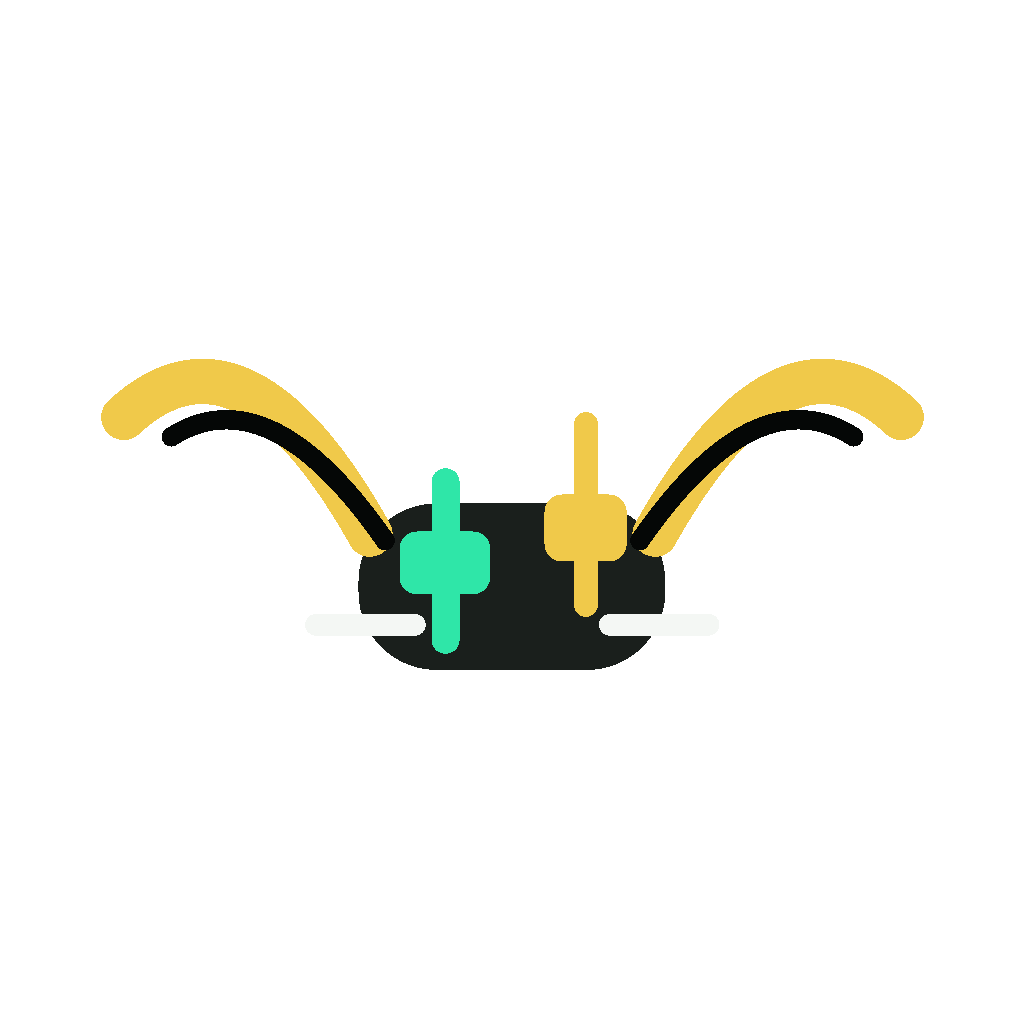
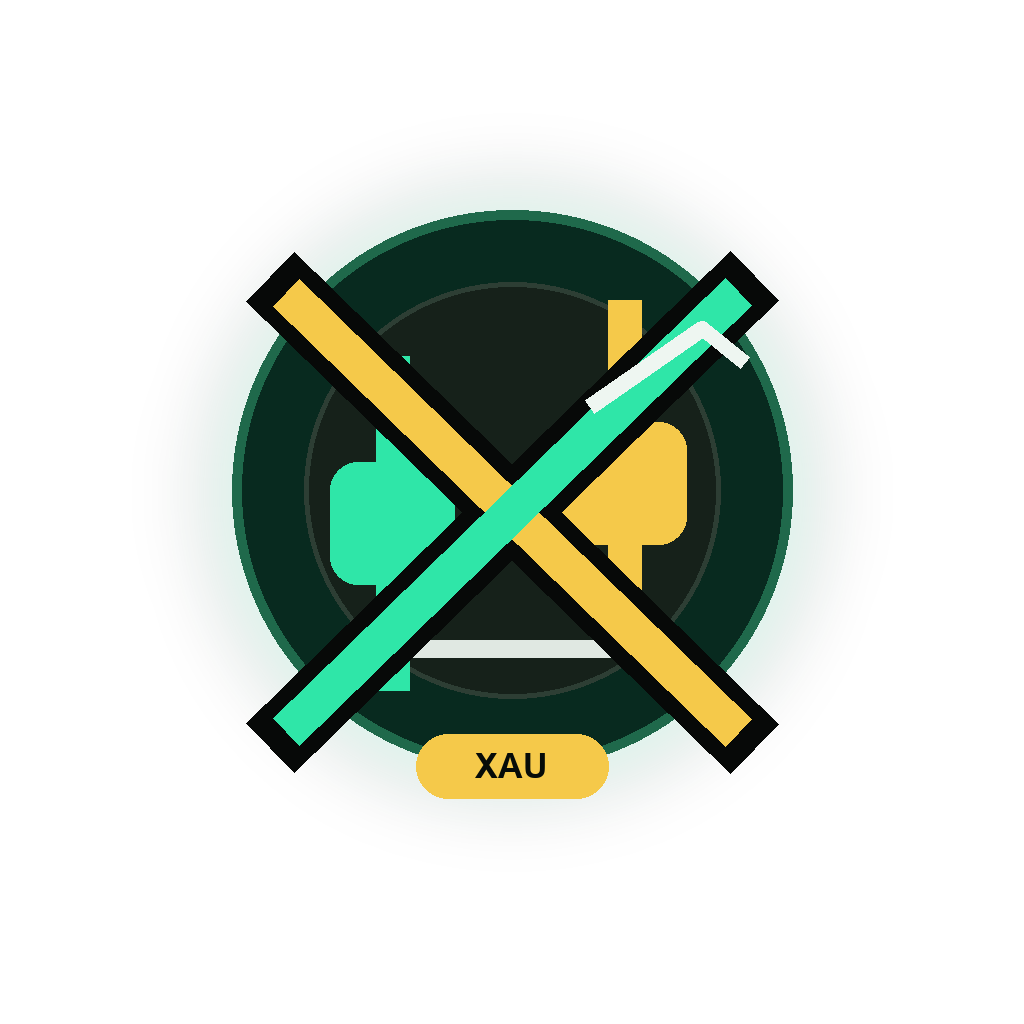
refresh mobile branding and auto version builds

Changed region(s): [[0.0938, 0.1875, 0.9062, 0.7812]]

diff --git a/apps/mobile/app.config.js b/apps/mobile/app.config.js
@@ -10,19 +10,33 @@ const easProjectId =
   process.env.EAS_PROJECT_ID ??
   appJson.expo.extra?.eas?.projectId;
 
+const buildSeed = process.env.MOBILE_BUILD_SEED ?? new Date().toISOString().replace(/\D/g, "").slice(0, 14);
+const buildDate = new Date(
+  `${buildSeed.slice(0, 4)}-${buildSeed.slice(4, 6)}-${buildSeed.slice(6, 8)}T${buildSeed.slice(8, 10)}:${buildSeed.slice(10, 12)}:${buildSeed.slice(12, 14)}Z`
+);
+const buildEpoch = Date.UTC(2026, 0, 1);
+const detectedVersionCode = Math.floor((buildDate.getTime() - buildEpoch) / 1000);
+const buildVersionCode = Number(process.env.MOBILE_VERSION_CODE) || (Number.isFinite(detectedVersionCode) ? Math.max(1, detectedVersionCode) : Math.floor(Date.now() / 1000));
+const buildVersionName =
+  process.env.MOBILE_VERSION_NAME ??
+  `${appJson.expo.version.split(".").slice(0, 2).join(".")}.${buildVersionCode}`;
+
 module.exports = {
   expo: {
     ...appJson.expo,
+    version: buildVersionName,
 
     android: {
       ...appJson.expo.android,
       package: "com.onehub.fxindicator", // Change to your actual package
+      versionCode: buildVersionCode,
       googleServicesFile: "./google-services.json",
     },
 
     extra: {
       ...appJson.expo.extra,
       apiBaseUrl,
+      buildSeed,
       eas: easProjectId
         ? { projectId: easProjectId }
         : appJson.expo.extra?.eas,

diff --git a/scripts/generate-mobile-brand-assets.py b/scripts/generate-mobile-brand-assets.py
@@ -1,0 +1,118 @@
+from __future__ import annotations
+
+from pathlib import Path
+from PIL import Image, ImageDraw, ImageFont, ImageFilter
+
+
+ROOT = Path(__file__).resolve().parents[1]
+ASSETS = ROOT / "apps" / "mobile" / "assets"
+
+BG = (5, 7, 6, 255)
+PANEL = (14, 18, 15, 255)
+PANEL_2 = (18, 25, 20, 255)
+GREEN = (47, 230, 168, 255)
+GREEN_DARK = (24, 117, 87, 255)
+GOLD = (245, 201, 74, 255)
+WHITE = (238, 246, 241, 255)
+MUTED = (128, 144, 136, 255)
+
+
+def font(size: int, bold: bool = True) -> ImageFont.FreeTypeFont:
+    candidates = [
+        "/System/Library/Fonts/Supplemental/Arial Bold.ttf" if bold else "/System/Library/Fonts/Supplemental/Arial.ttf",
+        "/Library/Fonts/Arial Bold.ttf" if bold else "/Library/Fonts/Arial.ttf",
+        "/usr/share/fonts/truetype/dejavu/DejaVuSans-Bold.ttf" if bold else "/usr/share/fonts/truetype/dejavu/DejaVuSans.ttf",
+    ]
+    for candidate in candidates:
+        try:
+            return ImageFont.truetype(candidate, size=size)
+        except OSError:
+            continue
+    return ImageFont.load_default()
+
+
+def rounded_rect(draw: ImageDraw.ImageDraw, box: tuple[int, int, int, int], radius: int, fill, outline=None, width: int = 1):
+    draw.rounded_rectangle(box, radius=radius, fill=fill, outline=outline, width=width)
+
+
+def make_mark(size: int, transparent: bool = False) -> Image.Image:
+    image = Image.new("RGBA", (size, size), (0, 0, 0, 0) if transparent else BG)
+    draw = ImageDraw.Draw(image)
+    scale = size / 1024
+
+    def s(value: int) -> int:
+        return round(value * scale)
+
+    if not transparent:
+        rounded_rect(draw, (s(64), s(64), s(960), s(960)), s(210), fill=PANEL, outline=(31, 48, 39, 255), width=s(5))
+
+    glow = Image.new("RGBA", (size, size), (0, 0, 0, 0))
+    glow_draw = ImageDraw.Draw(glow)
+    glow_draw.ellipse((s(210), s(190), s(814), s(794)), fill=(47, 230, 168, 48))
+    glow_draw.ellipse((s(300), s(270), s(724), s(694)), fill=(245, 201, 74, 35))
+    image.alpha_composite(glow.filter(ImageFilter.GaussianBlur(s(36))))
+
+    draw = ImageDraw.Draw(image)
+    draw.ellipse((s(232), s(210), s(792), s(770)), fill=(8, 42, 31, 255), outline=(31, 105, 75, 255), width=s(10))
+    draw.ellipse((s(304), s(282), s(720), s(698)), fill=(22, 33, 26, 255), outline=(45, 62, 52, 255), width=s(5))
+
+    # Candlestick base, clean and non-bird-like.
+    draw.line((s(352), s(648), s(672), s(648)), fill=(224, 232, 226, 255), width=s(18))
+    draw.line((s(392), s(356), s(392), s(690)), fill=GREEN, width=s(34))
+    rounded_rect(draw, (s(330), s(462), s(454), s(584)), s(28), fill=GREEN)
+    draw.line((s(624), s(300), s(624), s(640)), fill=GOLD, width=s(34))
+    rounded_rect(draw, (s(562), s(422), s(686), s(544)), s(28), fill=GOLD)
+
+    # FX monogram: strong X with a compact upward price stroke.
+    draw.line((s(270), s(276), s(754), s(748)), fill=(7, 9, 8, 255), width=s(70))
+    draw.line((s(754), s(276), s(270), s(748)), fill=(7, 9, 8, 255), width=s(70))
+    draw.line((s(286), s(292), s(738), s(732)), fill=GOLD, width=s(38))
+    draw.line((s(738), s(292), s(286), s(732)), fill=GREEN, width=s(38))
+    draw.line((s(590), s(406), s(702), s(328), s(744), s(362)), fill=WHITE, width=s(16), joint="curve")
+
+    # Small gold badge suggests XAU without text clutter in launcher.
+    rounded_rect(draw, (s(416), s(734), s(608), s(798)), s(32), fill=(245, 201, 74, 255))
+    draw.text((s(512), s(766)), "XAU", fill=(6, 11, 8, 255), font=font(s(34), True), anchor="mm")
+
+    return image
+
+
+def make_logo() -> Image.Image:
+    image = Image.new("RGBA", (920, 260), (0, 0, 0, 0))
+    mark = make_mark(208, transparent=True)
+    image.alpha_composite(mark, (24, 26))
+    draw = ImageDraw.Draw(image)
+    draw.text((260, 72), "XAUUSD", fill=WHITE, font=font(68, True), anchor="la")
+    draw.text((260, 142), "SIGNAL", fill=GREEN, font=font(42, True), anchor="la")
+    draw.line((260, 200, 705, 200), fill=(48, 66, 56, 255), width=3)
+    draw.line((260, 200, 470, 200), fill=GOLD, width=5)
+    draw.text((260, 222), "NY SESSION INDICATORS", fill=MUTED, font=font(22, True), anchor="la")
+    return image
+
+
+def make_splash() -> Image.Image:
+    image = Image.new("RGBA", (1242, 2436), BG)
+    glow = Image.new("RGBA", image.size, (0, 0, 0, 0))
+    glow_draw = ImageDraw.Draw(glow)
+    glow_draw.ellipse((170, 570, 1072, 1472), fill=(47, 230, 168, 40))
+    glow_draw.ellipse((335, 730, 907, 1302), fill=(245, 201, 74, 26))
+    image.alpha_composite(glow.filter(ImageFilter.GaussianBlur(70)))
+    mark = make_mark(520, transparent=True)
+    image.alpha_composite(mark, ((1242 - 520) // 2, 740))
+    draw = ImageDraw.Draw(image)
+    draw.text((621, 1350), "XAUUSD SIGNAL", fill=WHITE, font=font(72, True), anchor="mm")
+    draw.text((621, 1434), "New York session trading modules", fill=MUTED, font=font(32, False), anchor="mm")
+    return image
+
+
+def main() -> None:
+    ASSETS.mkdir(parents=True, exist_ok=True)
+    make_mark(1024).save(ASSETS / "icon.png")
+    make_mark(1024, transparent=True).save(ASSETS / "adaptive-icon.png")
+    make_mark(256, transparent=True).save(ASSETS / "brand-mark.png")
+    make_logo().save(ASSETS / "brand-logo.png")
+    make_splash().save(ASSETS / "splash.png")
+
+
+if __name__ == "__main__":
+    main()
